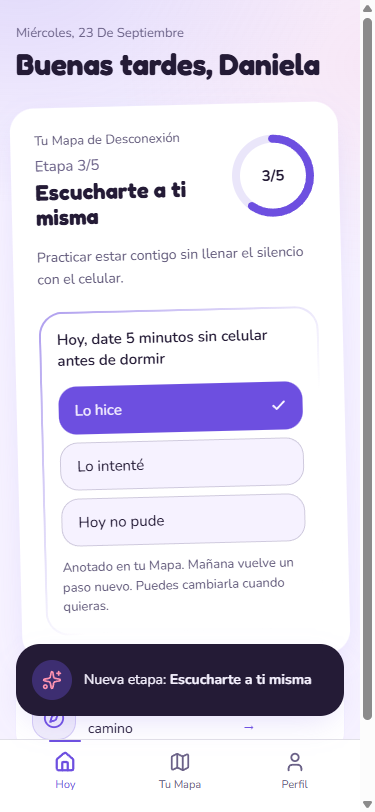
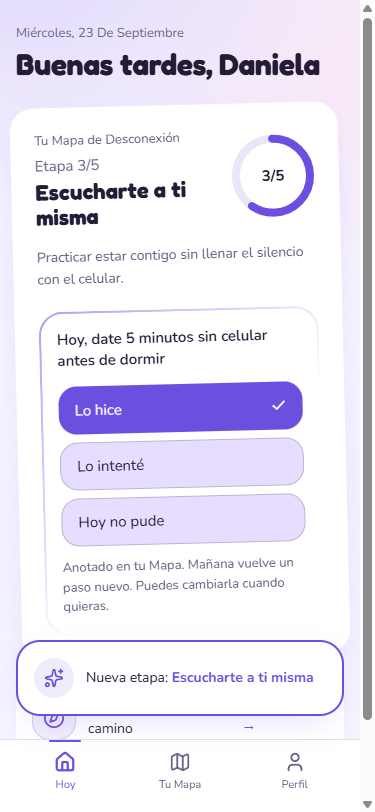
fix: app interna — reduced-motion global, celebracion coherente con la paleta clara, check-in mas legible
Segunda revision senalo: reduced-motion solo se respetaba en el conteo
numerico (se envuelve todo el arbol en MotionConfig reducedMotion="user");
el banner de celebracion usaba easing cubico en vez de spring (FICHA-ARTE
pide celebraciones spring) y fondo casi negro, el unico elemento oscuro en
una pantalla 100% clara (se cambia a superficie clara con borde violeta);
los 3 botones de check-in en reposo eran casi indistinguibles del fondo
(bg-surface-2 en vez de bg-bg).

Changed region(s): [[0.0293, 0.7697, 0.9387, 0.8929]]

diff --git a/app/app/page.tsx b/app/app/page.tsx
@@ -16,6 +16,7 @@
 import { useEffect, useState } from 'react';
 import {
   AnimatePresence,
+  MotionConfig,
   animate,
   motion,
   useMotionValue,
@@ -116,6 +117,7 @@ export default function AppVinculo() {
   };
 
   return (
+    <MotionConfig reducedMotion="user">
     <div className="flex min-h-dvh flex-col bg-[var(--bg)] [font-family:var(--font-body)]">
       <div
         aria-hidden="true"
@@ -162,14 +164,14 @@ export default function AppVinculo() {
             initial={{ opacity: 0, y: 24, scale: 0.95 }}
             animate={{ opacity: 1, y: 0, scale: 1 }}
             exit={{ opacity: 0, y: 12, scale: 0.97 }}
-            transition={{ duration: 0.35, ease: [0.16, 1, 0.3, 1] }}
-            className="fixed inset-x-4 bottom-24 z-20 mx-auto flex max-w-[420px] items-center gap-3 rounded-[var(--radius-card)] bg-[var(--text-primary)] p-4 shadow-[var(--shadow-2)]"
+            transition={{ type: 'spring', stiffness: 300, damping: 24 }}
+            className="fixed inset-x-4 bottom-24 z-20 mx-auto flex max-w-[420px] items-center gap-3 rounded-[var(--radius-card)] border-2 border-[var(--accent)] bg-[var(--surface)] p-4 shadow-[var(--shadow-2)]"
           >
-            <span className="flex size-10 shrink-0 items-center justify-center rounded-full bg-[color-mix(in_oklab,var(--accent)_35%,transparent)]">
-              <Sparkles size={20} color="var(--accent-2)" aria-hidden="true" />
+            <span className="flex size-10 shrink-0 items-center justify-center rounded-full bg-[var(--chip-bg)]">
+              <Sparkles size={20} color="var(--accent)" aria-hidden="true" />
             </span>
-            <p className="text-[14px] font-medium leading-snug" style={{ color: 'var(--bg)' }}>
-              Nueva etapa: <span className="font-bold">{celebrando.nombre}</span>
+            <p className="text-[14px] font-medium leading-snug text-[var(--text-primary)]">
+              Nueva etapa: <span className="font-bold text-[var(--accent)]">{celebrando.nombre}</span>
             </p>
           </motion.div>
         )}
@@ -212,6 +214,7 @@ export default function AppVinculo() {
         </div>
       </nav>
     </div>
+    </MotionConfig>
   );
 }
 
@@ -294,7 +297,7 @@ function PantallaHoy({
                       className={`flex h-12 w-full items-center justify-between rounded-[var(--radius-button)] px-4 text-[15px] font-medium transition-colors [touch-action:manipulation] ${
                         activo
                           ? 'bg-[var(--accent)] text-[var(--bg)]'
-                          : 'border border-[color-mix(in_oklab,var(--text-tertiary)_28%,transparent)] bg-[var(--bg)] text-[var(--text-primary)]'
+                          : 'border border-[color-mix(in_oklab,var(--text-tertiary)_35%,transparent)] bg-[var(--surface-2)] text-[var(--text-primary)]'
                       }`}
                     >
                       {op.label}

diff --git a/docs/revisiones/app-hoy-veredicto.md b/docs/revisiones/app-hoy-veredicto.md
@@ -1,14 +1,9 @@
 # VEREDICTO revisor-visual — app-hoy
 Fecha: 2026-09-23 00:00
 Screenshot: docs/revisiones/app-hoy-375.png
-Usabilidad: 31/40
-Craft: 14/20
+Usabilidad: 30/40
+Craft: 15/20
 Copy (si vende): N-A
 Fidelidad (si hubo referencia): N-A
 Veredicto: NO LISTA
-Top defectos:
-1. [Nav inferior / cambio de pestaña Hoy-Mapa-Perfil] El contenido cambia instantáneo sin transición (no hay AnimatePresence entre tabs, page.tsx líneas 125-138) → envolver el render condicional en AnimatePresence mode="wait" con fade/slide 200-300ms.
-2. [Mensaje de error bajo la tarjeta "Hoy", línea 304-308] El error de guardado local solo informa, no da acción de recuperación → agregar botón "Reintentar" que vuelva a llamar registrarPasoHoy.
-3. [Tarjeta de check-in, 3 botones Lo hice/Lo intenté/Hoy no pude] Nada indica visualmente que la respuesta se puede cambiar después de elegida — se ve como estado final/bloqueado → agregar microcopy "Puedes cambiarla cuando quieras" cerca de las opciones.
-4. [Anillo de etapa + header "Etapa 2/5"] No hay celebración implementada al completar una etapa real, pese a que FICHA-ARTE exige "celebrar solo hitos reales" (personalidad, línea 27-28) → agregar animación de hito (confetti/lottie sutil) disparada al subir etapaActual, ausente en el código actual.
-5. [Pantalla completa, flujo de check-in diario] Cero atajos o memoria de uso repetido (heurística 7: sin preselección basada en el patrón reciente del usuario, sin gestos) → considerar sugerir/preseleccionar la opción más frecuente sin forzarla.
+Top defectos: 1) prefers-reduced-motion solo cubierto en CountUp (código page.tsx) — ring/stagger/tap/transición de tabs/celebración lo ignoran → agregar useReducedMotion()/MotionConfig global. 2) Heurística 7 (flexibilidad) en 1/4, sin atajos ni defaults para usuario recurrente. 3) Celebración usa ease cúbico, no spring, contradice motion signature de FICHA-ARTE ("celebraciones spring suave"). 4) Botones de check-in inactivos con bajo contraste entre sí (border + bg=var(--bg)) — jerarquía de opciones poco clara a simple vista. 5) Banner de celebración con fondo casi negro rompe la paleta 100% clara de la pantalla, se siente ajeno al resto del sistema.
